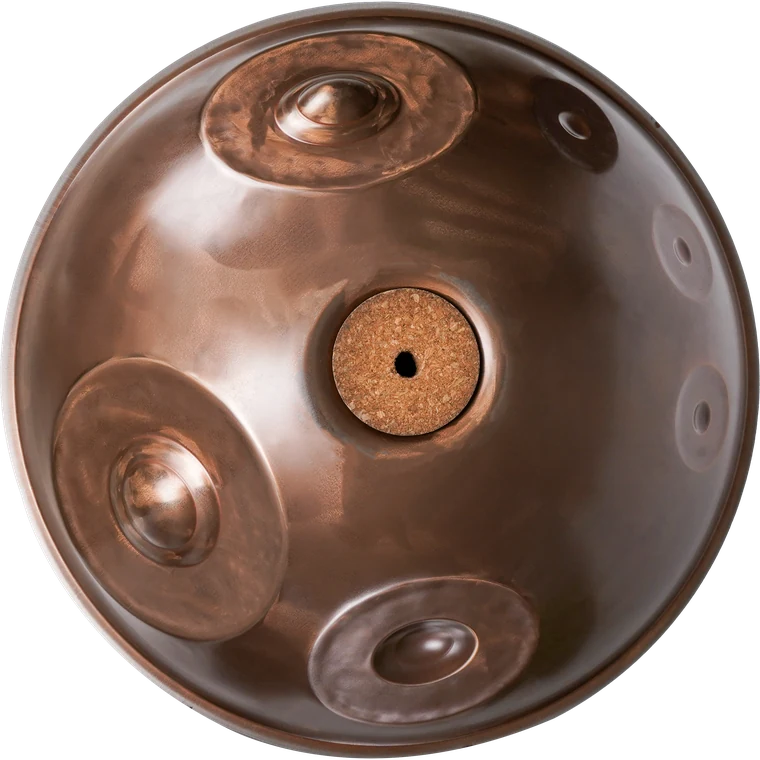
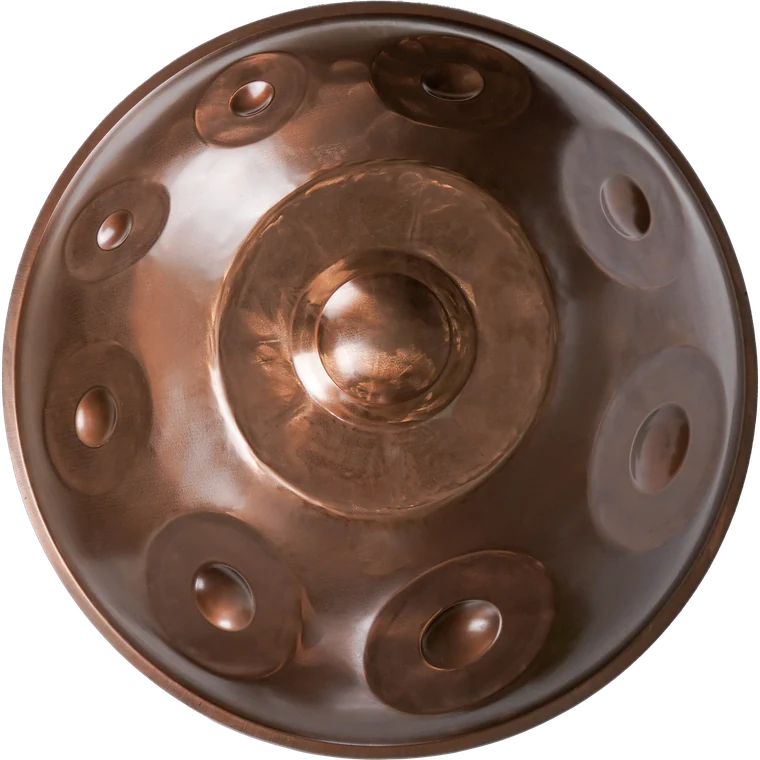
fix: correct Nordlys top-down render; circle element glyphs around handpan
- Nordlys mood circle + Origins card now use the true top-down render
  (was an angled/underside shot that read as upside-down)
- Desktop elements wheel: the four quad glyphs now ring the central
  handpan and Space sits at the base of its band, matching the Canva layout

diff --git a/src/app/globals.css b/src/app/globals.css
@@ -1670,6 +1670,59 @@
   filter: drop-shadow(0 1px 10px rgba(0, 0, 0, 0.55));
 }
 
+/* Desktop: the four quad glyphs circle the central handpan (Canva layout). */
+.element-wheel__symbol-ring {
+  position: absolute;
+  left: 50%;
+  top: 50%;
+  transform: translate(-50%, -50%);
+  width: min(64%, 660px);
+  aspect-ratio: 1 / 1;
+  z-index: 6;
+  pointer-events: none;
+}
+
+.element-wheel__ring-symbol {
+  position: absolute;
+  width: 48px;
+  height: 48px;
+  object-fit: contain;
+  filter: drop-shadow(0 1px 11px rgba(0, 0, 0, 0.6));
+}
+
+.element-wheel__ring-symbol--fire {
+  left: 0;
+  top: 43%;
+  transform: translate(-50%, -50%);
+}
+
+.element-wheel__ring-symbol--water {
+  right: 0;
+  top: 43%;
+  transform: translate(50%, -50%);
+}
+
+.element-wheel__ring-symbol--earth {
+  left: 15%;
+  bottom: 3%;
+  transform: translate(-50%, 50%);
+}
+
+.element-wheel__ring-symbol--air {
+  right: 15%;
+  bottom: 3%;
+  transform: translate(50%, 50%);
+}
+
+/* Space glyph sits at the base of its band, just above the handpan. */
+.element-wheel-panel--space.element-wheel-panel--compact .element-wheel-panel__symbol {
+  position: absolute;
+  bottom: 8%;
+  left: 50%;
+  margin-top: 0;
+  transform: translateX(-50%);
+}
+
 .element-wheel__desktop {
   max-width: 56rem;
   margin-inline: auto;

diff --git a/src/app/components/home/ElementsWheelSection.tsx b/src/app/components/home/ElementsWheelSection.tsx
@@ -42,7 +42,15 @@ const PANEL_SLOT: Record<BrandElementId, string> = {
   air: "element-wheel-panel--air",
 };
 
-function ElementPanel({ id, compact }: { id: BrandElementId; compact?: boolean }) {
+function ElementPanel({
+  id,
+  compact,
+  inlineSymbol = true,
+}: {
+  id: BrandElementId;
+  compact?: boolean;
+  inlineSymbol?: boolean;
+}) {
   const el = brandElements.find((e) => e.id === id)!;
 
   return (
@@ -68,14 +76,16 @@ function ElementPanel({ id, compact }: { id: BrandElementId; compact?: boolean }
         <p className="mt-3 text-xs leading-relaxed text-white/75 md:text-sm">
           {el.description}
         </p>
-        <Image
-          src={ELEMENT_SYMBOL[id]}
-          alt=""
-          width={48}
-          height={48}
-          className="element-wheel-panel__symbol"
-          aria-hidden
-        />
+        {inlineSymbol ? (
+          <Image
+            src={ELEMENT_SYMBOL[id]}
+            alt=""
+            width={48}
+            height={48}
+            className="element-wheel-panel__symbol"
+            aria-hidden
+          />
+        ) : null}
       </div>
     </article>
   );
@@ -123,10 +133,10 @@ export function ElementsWheelSection({
           <div className="element-wheel__desktop hidden lg:block">
             <ElementPanel id="space" compact={variant === "canva"} />
             <div className="element-wheel__quad">
-              <ElementPanel id="fire" compact={variant === "canva"} />
-              <ElementPanel id="water" compact={variant === "canva"} />
-              <ElementPanel id="earth" compact={variant === "canva"} />
-              <ElementPanel id="air" compact={variant === "canva"} />
+              <ElementPanel id="fire" compact={variant === "canva"} inlineSymbol={false} />
+              <ElementPanel id="water" compact={variant === "canva"} inlineSymbol={false} />
+              <ElementPanel id="earth" compact={variant === "canva"} inlineSymbol={false} />
+              <ElementPanel id="air" compact={variant === "canva"} inlineSymbol={false} />
               <div className="element-wheel__center">
                 <Image
                   src={canvaAssets.elements.centerHandpan}
@@ -135,6 +145,19 @@ export function ElementsWheelSection({
                   sizes="420px"
                   className="object-contain object-center drop-shadow-2xl"
                 />
+              </div>
+              {/* Element glyphs circling the central handpan (Canva layout). */}
+              <div className="element-wheel__symbol-ring" aria-hidden>
+                {(["fire", "water", "earth", "air"] as const).map((elId) => (
+                  <Image
+                    key={elId}
+                    src={ELEMENT_SYMBOL[elId]}
+                    alt=""
+                    width={48}
+                    height={48}
+                    className={`element-wheel__ring-symbol element-wheel__ring-symbol--${elId}`}
+                  />
+                ))}
               </div>
             </div>
           </div>